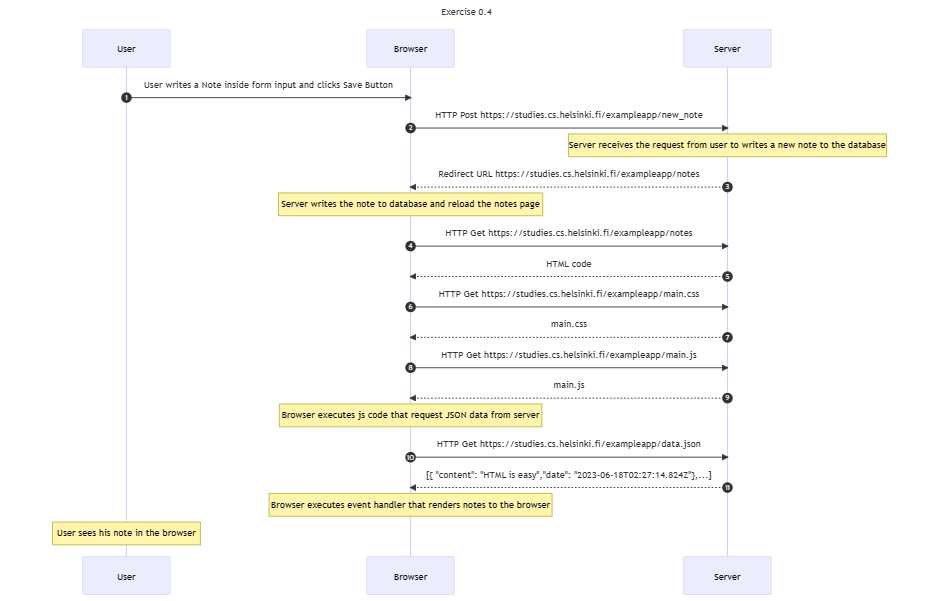
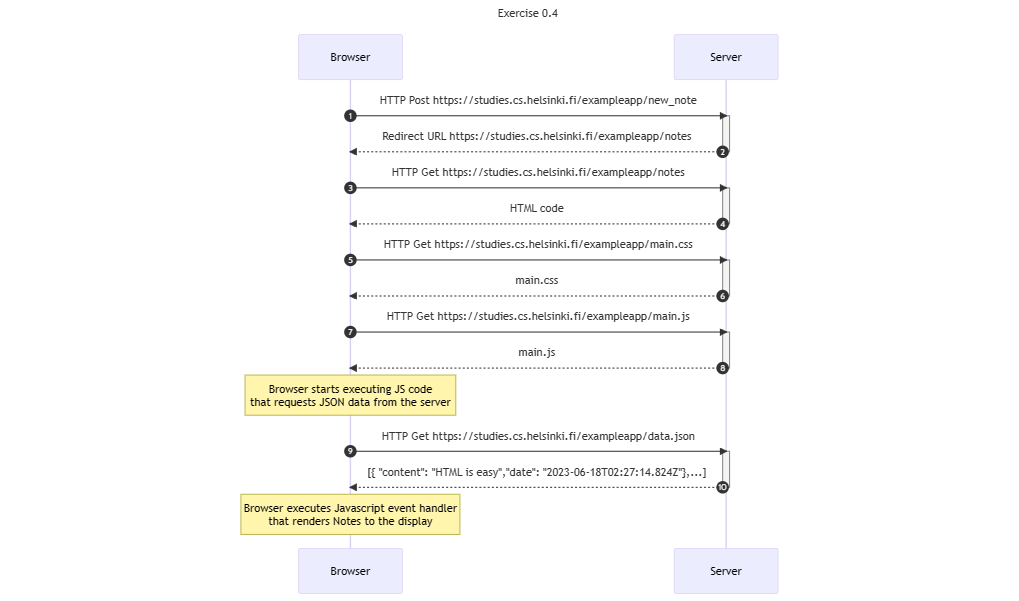
Part0 exercise 0.4 corrected

diff --git a/part0/exercise 0.4/0.4 New note diagram.md b/part0/exercise 0.4/0.4 New note diagram.md
@@ -2,23 +2,18 @@ sequenceDiagram
 Title Exercise 0.4
 AutoNumber
 
-participant User
 participant Browser
 participant Server
 
-User->> Browser: User writes a Note inside form input and clicks Save Button
-Browser->> Server: HTTP Post https://studies.cs.helsinki.fi/exampleapp/new_note
-Note over Server: Server receives the request from user to writes a new note to the database
-Server-->> Browser: Redirect URL https://studies.cs.helsinki.fi/exampleapp/notes
-Note over Browser: Server writes the note to database and reload the notes page
-Browser ->> Server: HTTP Get https://studies.cs.helsinki.fi/exampleapp/notes
-Server -->> Browser: HTML code
-Browser ->> Server: HTTP Get https://studies.cs.helsinki.fi/exampleapp/main.css
-Server -->> Browser: main.css
-Browser ->> Server: HTTP Get https://studies.cs.helsinki.fi/exampleapp/main.js
-Server -->> Browser: main.js
-Note over Browser: Browser executes js code that request JSON data from server
-Browser ->> Server: HTTP Get https://studies.cs.helsinki.fi/exampleapp/data.json
-Server -->> Browser: [{ "content": "HTML is easy","date": "2023-06-18T02:27:14.824Z"},...]
-Note over Browser: Browser executes event handler that renders notes to the browser
-Note over User: User sees his note in the browser
+Browser->>+ Server: HTTP Post https://studies.cs.helsinki.fi/exampleapp/new_note
+Server-->>- Browser: Redirect URL https://studies.cs.helsinki.fi/exampleapp/notes
+Browser ->>+ Server: HTTP Get https://studies.cs.helsinki.fi/exampleapp/notes
+Server -->>- Browser: HTML code
+Browser ->>+ Server: HTTP Get https://studies.cs.helsinki.fi/exampleapp/main.css
+Server -->>- Browser: main.css
+Browser ->>+ Server: HTTP Get https://studies.cs.helsinki.fi/exampleapp/main.js
+Server -->>- Browser: main.js
+Note over Browser: Browser starts executing JS code <br> that requests JSON data from the server
+Browser ->>+ Server: HTTP Get https://studies.cs.helsinki.fi/exampleapp/data.json
+Server -->>- Browser: [{ "content": "HTML is easy","date": "2023-06-18T02:27:14.824Z"},...]
+Note over Browser: Browser executes Javascript event handler <br> that renders Notes to the display
